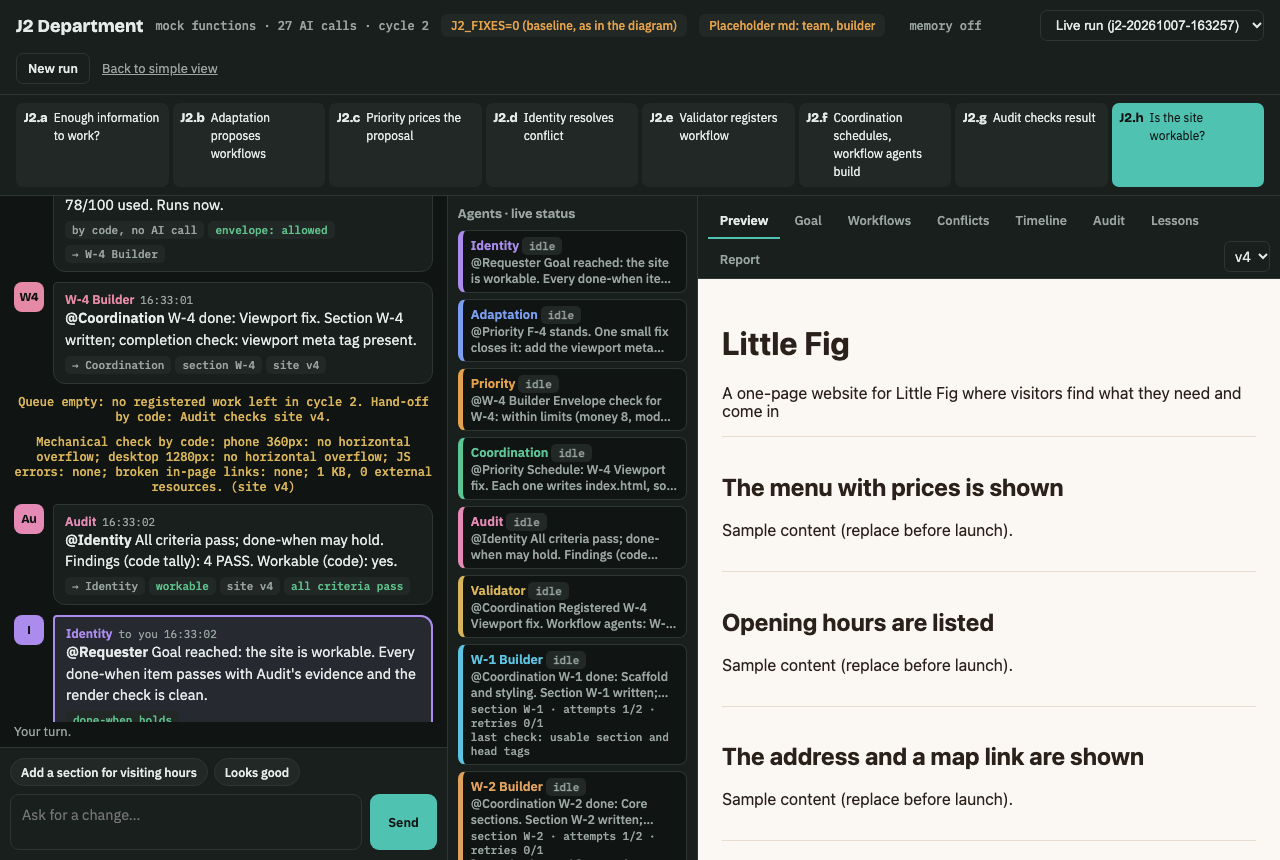
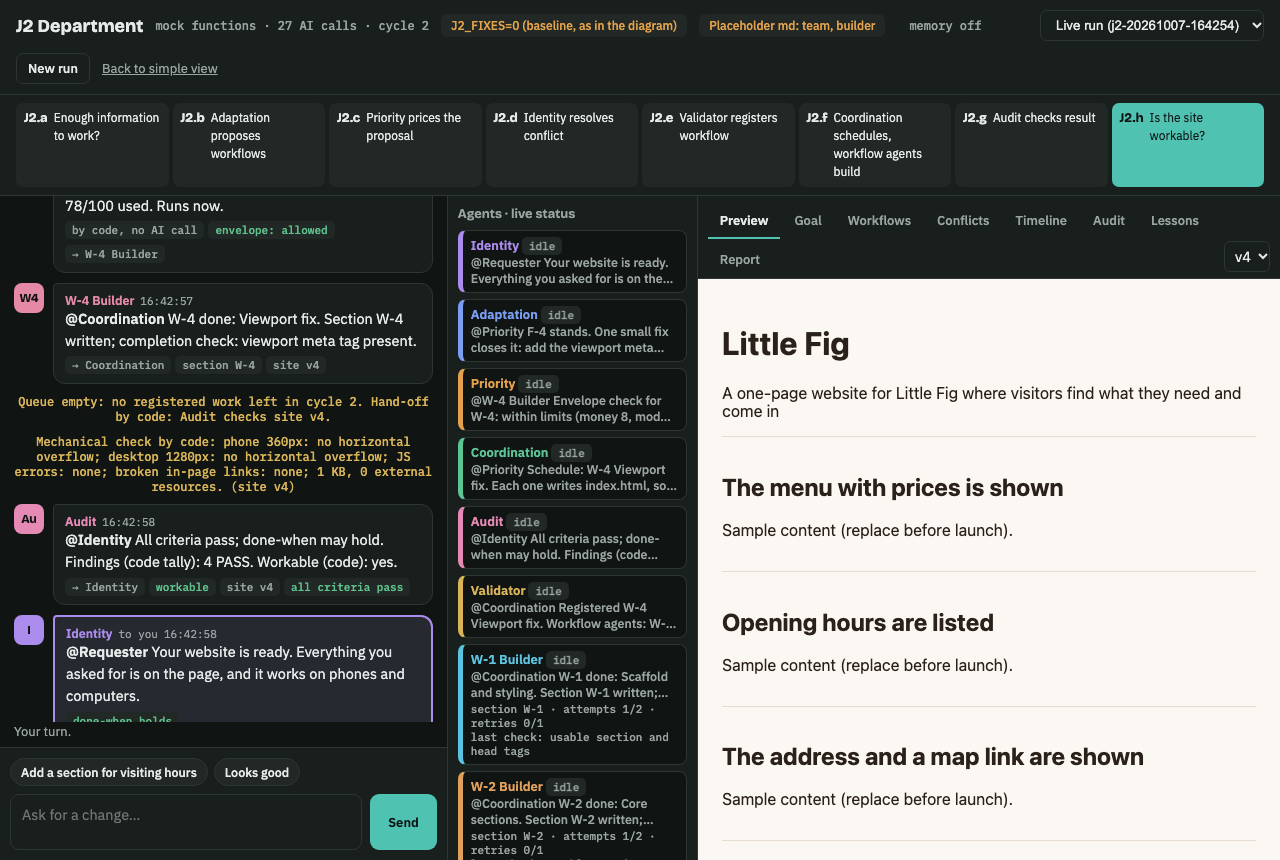
Simple view: plain words at the source, phone toggle, cleaner questions
Identity's prompt now requires plain wording for anything written to
the Requester; the page's word list is a fallback (Audit -> "our
checks"). A question with options shows once, then its buttons. Phone:
preview hidden until a site exists, then a Chat | Preview toggle.
Solid sticky progress bar; chat scrolls to the end after layout.
Tests for each; screenshots retaken.

diff --git a/j2_ui.html b/j2_ui.html
@@ -109,7 +109,9 @@ body.simple #dview{display:none}body:not(.simple) #sview{display:none}
 .smain{flex:1;display:grid;grid-template-columns:minmax(320px,1fr) minmax(0,1.6fr);min-height:0}
 .smain>*{min-width:0}
 .schat{display:flex;flex-direction:column;min-height:0;border-right:1px solid var(--line)}
-.sprog{display:flex;gap:4px;padding:12px 14px 8px}
+.sprog{display:flex;gap:4px;padding:12px 14px 10px;background:var(--bg);border-bottom:1px solid var(--line);position:sticky;top:0;z-index:2;flex:0 0 auto}
+.sq{margin:6px 0 0}
+.stoggle{display:none}
 .sprog div{flex:1;text-align:center;font-size:12px;color:var(--muted)}
 .sprog div i{display:block;height:6px;border-radius:3px;background:var(--panel2);margin-bottom:5px}
 .sprog div.done i,.sprog div.on i{background:var(--accent)}.sprog div.on{color:var(--ink);font-weight:600}
@@ -132,13 +134,21 @@ body.simple #dview{display:none}body:not(.simple) #sview{display:none}
 .ready a,.ready button{border:1px solid var(--line);background:var(--panel2);color:var(--ink);border-radius:8px;padding:7px 11px;font-size:13.5px;text-decoration:none}
 .oops{border:2px solid var(--bad);border-radius:12px;padding:12px;background:var(--panel)}
 .sprev{min-height:0;background:#fff}
-@media (max-width:900px){.smain{grid-template-columns:minmax(0,1fr);grid-template-rows:62vh 75vh}.schat{border-right:0;border-bottom:1px solid var(--line)}}
+@media (max-width:900px){
+  /* phone: one pane at a time; the preview only once a site exists, via the Chat | Preview toggle */
+  .smain{grid-template-columns:minmax(0,1fr);grid-template-rows:auto minmax(0,1fr)}
+  .schat{border-right:0;grid-row:2}.sprev{display:none;grid-row:2}
+  body.has-site .stoggle{display:flex;grid-row:1;border-bottom:1px solid var(--line);background:var(--panel)}
+  .stoggle button{flex:1;border:0;background:none;color:var(--muted);padding:10px;font-weight:600;border-bottom:2px solid transparent}
+  .stoggle button[aria-selected="true"]{color:var(--ink);border-color:var(--accent)}
+  body.sp-preview .schat{display:none}body.sp-preview .sprev{display:block}}
 </style>
 </head>
 <body class="simple">
 <div id="sview">
   <header class="shead"><b>Your website team</b><span class="spacer"></span><a href="?view=detail" class="slink" id="to-detail">See how it works</a></header>
   <main class="smain">
+    <div class="stoggle" role="tablist" aria-label="Show"><button type="button" role="tab" data-pane="chat" aria-selected="true">Chat</button><button type="button" role="tab" data-pane="preview" aria-selected="false">Preview</button></div>
     <section class="schat">
       <div class="sprog" id="sprog" aria-label="Progress"></div>
       <div class="smsgs" id="smsgs" aria-live="polite"></div>
@@ -386,10 +396,10 @@ function renderLessons(s){
 }
 // ================= Simple view: one voice ("Your website team"), plain words, no internals =================
 // Order matters: specific phrases first, then names and words. Internals become plain words; nothing is invented.
-const AGENT = "(?:Identity|Adaptation|Priority|Coordination|Audit|Validator|W-\\d+(?: Builder)?|Builder)";
+const AGENT = "(?:Identity|Adaptation|Priority|Coordination|Validator|W-\\d+(?: Builder)?|Builder)";
 const PLAIN = [[/@[\w-]+[,:]?/g, ""], [/\(?\bJ2(?:\.[a-h]|_[A-Z_]+(?:=\S*)?)?\)?/g, ""], [/\bClause:\s*/g, ""],
   [/\s+(?:on|in|for|of) [CFW]-\d+\b/g, ""], [/\b[CF]-\d+\b/g, ""],
-  [/\bthe Requester\b/g, "you"], [/\bRequester's\b/g, "your"], [/\bRequester\b/g, "you"],
+  [/\b[Tt]he Requester\b/g, "you"], [/\bRequester's\b/g, "your"], [/\bRequester\b/g, "you"],
   [/\bCOUNTER\b/g, "a smaller offer"], [/\bGRANT\b/g, "a yes"], [/\bREFUSE\b/g, "a no"],
   [/\bover (?:the )?budget\b/gi, "more than planned"], [/\bout of budget\b/gi, "out of planned effort"],
   [/\bbudgets?\b/gi, "effort"], [/\bunits?\b/g, "effort points"],
@@ -398,6 +408,7 @@ const PLAIN = [[/@[\w-]+[,:]?/g, ""], [/\(?\bJ2(?:\.[a-h]|_[A-Z_]+(?:=\S*)?)?\)?
   [/\bworkable\b/gi, "ready to use"], [/\bcharter\b/gi, "plan"], [/\bworkflows\b/gi, "tasks"], [/\bworkflow\b/gi, "task"],
   [/\bcycles\b/gi, "rounds"], [/\bcycle\b/gi, "round"], [/\benvelope\b/gi, "limit"], [/\brate[- ]card\b/gi, "price list"],
   [/\bAI calls?\b/gi, "steps"], [/\bmock\b/gi, "sample"],
+  [/\bAudit's\b/g, "our checks'"], [/\bAudit\b/g, "our checks"],
   [new RegExp(`\\b${AGENT}'s\\b`, "g"), "the team's"], [new RegExp(`\\b${AGENT}\\b`, "g"), "the team"]];
 const plain = t => PLAIN.reduce((a, [r, w]) => a.replace(r, w), String(t || "")).replace(/[ \t]{2,}/g, " ")
   .replace(/\s+([.,;:!?])/g, "$1").replace(/\(\s*\)/g, "").trim().replace(/(^|[.!?]\s+|\n)([a-z])/g, (m, a, b) => a + b.toUpperCase());
@@ -427,12 +438,18 @@ function askBubble(m, live){
   let body = `<small>Your website team</small>${esc(say)}`;
   if (kind === "limit" && a.qs[0]){
     const ls = a.qs[0].opts.map(o => optLabel(kind, o));
-    body += `\n${esc(ls.map((l, i) => i === ls.length - 1 && i ? "or " + l.charAt(0).toLowerCase() + l.slice(1) : l).join(", "))}?`;
-  } else if (a.qs.length) body += `<ol>${a.qs.map(q => `<li>${esc(plain(q.q))}</li>`).join("")}</ol>`;
-  if (live) a.qs.forEach((q, i) => { if (!q.opts.length) return;
-    body += `<div class="opts" data-q="${i + 1}" data-n="${a.qs.length}">${q.opts.map((o, j) =>
-      `<button type="button" data-opt="${j + 1}">${esc(optLabel(kind, o))}</button>`).join("")}</div>`; });
+    // live: the buttons are the options, so the sentence doesn't list them again
+    body += live ? " What would you like to do?" + optButtons(a, 0, kind)
+      : `\n${esc(ls.map((l, i) => i === ls.length - 1 && i ? "or " + l.charAt(0).toLowerCase() + l.slice(1) : l).join(", "))}?`;
+  } else if (a.qs.length === 1 || a.qs.some(q => q.opts.length)){
+    // a question with options: the question once, then its buttons (no numbered list)
+    a.qs.forEach((q, i) => { body += `<p class="sq">${esc(plain(q.q))}</p>` + (live && q.opts.length ? optButtons(a, i, kind) : ""); });
+  } else body += `<ol>${a.qs.map(q => `<li>${esc(plain(q.q))}</li>`).join("")}</ol>`;
   return `<div class="sb team">${body}</div>`;
+}
+function optButtons(a, i, kind){
+  return `<div class="opts" data-q="${i + 1}" data-n="${a.qs.length}">${a.qs[i].opts.map((o, j) =>
+    `<button type="button" data-opt="${j + 1}">${esc(optLabel(kind, o))}</button>`).join("")}</div>`;
 }
 function renderSimple(s){
   const st = stage(s);
@@ -456,7 +473,9 @@ function renderSimple(s){
     <a href="/site/latest${runQ().replace("&", "?")}" download="my-website.html">Download the HTML file</a>
     <button type="button" id="sask-change">Ask for a change</button></div></div>`;
   if (failed(s)) out += `<div class="oops">Something went wrong. Try again.<div class="acts" style="margin-top:8px"><button type="button" class="ghost" id="sretry">Start over</button></div></div>`;
-  if (out !== simpleHTML){ simpleHTML = out; $("smsgs").innerHTML = out; $("smsgs").scrollTop = $("smsgs").scrollHeight; }
+  if (out !== simpleHTML){ simpleHTML = out; $("smsgs").innerHTML = out;
+    const end = () => { $("smsgs").scrollTop = $("smsgs").scrollHeight; };   // again after layout and fonts settle
+    end(); requestAnimationFrame(end); setTimeout(end, 300); }
   const w = s.workflows.find(x => x.id === s.thinking || x.status === "running");
   $("sstatus").textContent = s.status !== "running" ? "" : w ? `Building your ${plain(w.name).toLowerCase()}…`
     : ["Reading your request…", "Reading your request…", "Planning your website…", "Planning your website…", "Planning your website…",
@@ -465,12 +484,17 @@ function renderSimple(s){
   $("sbox").disabled = $("ssend").disabled = busy;
   $("sbox").placeholder = s.paused ? "Or type your own answer…" : isReady(s) ? "Describe a change…" : s.allChat.length ? "Write a message…" : "Describe the website you want…";
   if (s.versions !== sversions){ sversions = s.versions; $("sframe").src = `/site/latest?t=${Date.now()}${runQ()}`; }
+  document.body.classList.toggle("has-site", s.versions > 0);
+  if (!s.versions) document.body.classList.remove("sp-preview");
 }
 let simpleHTML = null, sversions = -1;
 async function sendText(text){
   if (!text) return;
   await fetch("/api/say", {method:"POST", headers:{"Content-Type":"application/json"}, body:JSON.stringify({text})});
 }
+document.querySelector(".stoggle").addEventListener("click", e => { const b = e.target.closest("[data-pane]"); if (!b) return;
+  document.body.classList.toggle("sp-preview", b.dataset.pane === "preview");
+  document.querySelectorAll(".stoggle [data-pane]").forEach(x => x.setAttribute("aria-selected", x === b)); });
 $("ssend").onclick = () => { const t = $("sbox").value.trim(); $("sbox").value = ""; sendText(t); };
 $("sbox").addEventListener("keydown", e => { if (e.key === "Enter" && !e.shiftKey){ e.preventDefault(); $("ssend").click(); }});
 $("smsgs").addEventListener("click", async e => {

diff --git a/j2_flow_test.py b/j2_flow_test.py
@@ -512,7 +512,8 @@ def summary_before_review():
 SIMPLE_FORBIDDEN = re.compile(r"\b(Identity|Adaptation|Priority|Coordination|Audit|Validator|Builder|Requester)\b|J2|"
                               r"budget|\bW-\d|@|\bcycles?\b|AI calls?|\bmock\b|charter|done[-_ ]when|workflow|\bthe you\b",
                               re.I)
-SIMPLE_FORBIDDEN_CASE = re.compile(r"\b(COUNTER|GRANT|REFUSE|Clause|NEEDS_REVISION|PASS)\b")
+SIMPLE_FORBIDDEN_CASE = re.compile(r"\b(COUNTER|GRANT|REFUSE|Clause|NEEDS_REVISION|PASS)\b"
+                                   r"|\b(?:after|before|by|from|until|than) the team\b")   # e.g. "after Audit" -> not "after the team"
 
 
 def simple_text(base):
@@ -547,7 +548,8 @@ def simple_text(base):
     p = P()
     p.text, p.buttons = [], []
     p.feed(out)
-    return " ".join(" ".join(p.text).split()), p.buttons
+    body = re.search(r'<body class="([^"]*)"', out)
+    return " ".join(" ".join(p.text).split()), p.buttons, (body.group(1).split() if body else [])
 
 
 def simple_view():
@@ -562,40 +564,81 @@ def simple_view():
     base = f"http://127.0.0.1:{srv.server_address[1]}"
     keep = j2_server.RUN
 
-    def check(run, *want, opts=0):
+    def check(run, *want, opts=0, once=(), site=None):
         j2_server.RUN = run
-        text, buttons = simple_text(base)
+        text, buttons, cls = simple_text(base)
         bad = SIMPLE_FORBIDDEN.findall(text) + SIMPLE_FORBIDDEN_CASE.findall(text)
         assert not bad, (bad, text[:600])
         for w in want:
             assert w in text, (w, text[:600])
         assert sum(1 for b in buttons if b.get("data-opt")) >= opts, (opts, buttons)
+        for w in once:                         # a question with buttons is shown once, not also as a numbered list
+            assert text.count(w) == 1, (w, text.count(w), text[-500:])
+        if site is not None:                   # phone: the Chat | Preview toggle only once a site exists
+            assert ("has-site" in cls) == site, cls
         return text
     try:
         os.environ["J2_FIXES"] = "0"
-        check(j2.J2Run(), "Describe the website you want", "A website for my cafe", "Understanding your request")
+        check(j2.J2Run(), "Describe the website you want", "A website for my cafe", "Understanding your request",
+              site=False)
         run = j2.J2Run()
         say(run, "a website for my cafe")
-        check(run, "Your website team", "What is the business called")                     # J2.a questions
+        check(run, "Your website team", "What is the business called", site=False)          # J2.a questions
         say(run, "It's called Little Fig, in Koramangala, Bengaluru. Visitors should see our menu with prices, opening "
                  "hours and where to find us. Cozy and simple, and it must work on phones.")
-        t = check(run, "Fund a stories section", opts=2)                                     # a conflict, as buttons
-        assert "effort" in t or "units" not in t, t
+        check(run, opts=2, once=("Do you want a section about your coffee's story?",
+                                 "Add a section about your coffee's story (takes a bit longer)",
+                                 "Keep it simple, no story section"))                       # a conflict: once, as buttons
         say(run, "Option 2")
         check(run, "Your website is ready", "Open full screen", "Download the HTML file", "Ask for a change",
-              "No stories section")                                                          # the chosen label shows
+              "Keep it simple, no story section", site=True)                                # the chosen label shows
         os.environ["J2_FIXES"] = "1"
         run = j2.J2Run()
         run.budget = 85
         say(run, BREW_LAB)
         say(run, "Option 1")                                                                 # ruling: add effort
         assert run.paused and run.paused["kind"] == "limit", run.outcome
-        check(run, "This needs a bit more work than planned", "Continue (uses a little more effort)",
-              "Finish as it is", opts=2)
+        check(run, "This needs a bit more work than planned", "What would you like to do?", opts=2,
+              once=("Continue (uses a little more effort)", "Finish as it is"))
     finally:
         j2_server.RUN = keep
         srv.shutdown()
         os.environ["J2_FIXES"] = "0"
+
+
+def plain_words():
+    """The Simple view's word list (fallback only): Audit becomes "our checks", never "the team", so nothing reads
+    "after the team"; other function names become "the team"; budget becomes effort. Runs the page's own JS in node."""
+    import shutil
+    import subprocess
+    if not shutil.which("node"):
+        print("plain-words check skipped: node not found")
+        return
+    with open(os.path.join(j2.HERE, "j2_ui.html"), encoding="utf-8") as f:
+        ui = f.read()
+    js = ui[ui.index("const AGENT ="):ui.index("const STAGES =")]
+    cases = {"only 10 units stay for fixes after Audit": "Only 10 effort points stay for fixes after our checks",
+             "Every done-when item passes with Audit's evidence.": "Every checklist item passes with our checks' evidence.",
+             "@Adaptation Priority's final answer was COUNTER.": "The team's final answer was a smaller offer.",
+             "The Requester picked; the budget is over budget.": "You picked; the effort is more than planned."}
+    out = subprocess.run(["node", "-e", js + "\nconst c = " + json.dumps(list(cases)) +
+                          ";\nprocess.stdout.write(JSON.stringify(c.map(plain)));"], capture_output=True, text=True)
+    got = json.loads(out.stdout or "null") or sys.exit(out.stderr)
+    for (src, want), g in zip(cases.items(), got):
+        assert g == want, (src, g, want)
+        assert not re.search(r"\b(?:after|before|by|from|until|than) the team\b", g), g
+
+
+def identity_prompt_is_plain():
+    """Item 1: every Identity call carries the plain-language rule for what it writes to the Requester; no one else's."""
+    run = j2.J2Run()
+    say(run, BREW_LAB)
+    add_budget_if_asked(run)
+    with open(os.path.join(run.dir, "calls.jsonl"), encoding="utf-8") as f:
+        calls = [json.loads(ln) for ln in f]
+    assert any(c["fn"] == "identity" for c in calls)
+    for c in calls:
+        assert ("college student with no tech background" in c["prompt"]) == (c["fn"] == "identity"), (c["id"], c["fn"])
 
 
 def page():
@@ -705,5 +748,7 @@ if __name__ == "__main__":
     page()
     print("E behind-the-scenes view (lanes, detail, timeline, saved runs, redaction, lessons) ok")
     simple_view()
-    print("G simple view (plain words, buttons, ready card) ok")
+    plain_words()
+    identity_prompt_is_plain()
+    print("G simple view (plain words at the source and as fallback, buttons once, phone toggle, ready card) ok")
     print("j2 flow checks passed")

diff --git a/j2.py b/j2.py
@@ -715,6 +715,16 @@ class J2Run:
         return f"STATE:\n{self.state(fn)}\n\nCHAT:\n{self.chat_view()}"
 
     REASON = '"reason": str (one short sentence: why you decided this)'
+    # Every Identity call gets this: anything Identity writes to the Requester must read plainly at the source.
+    # (The Simple view's word list is only a fallback.) Messages to other agents keep their precise terms.
+    PLAIN_TO_REQUESTER = (
+        "\nWHEN YOU WRITE TO THE REQUESTER (any say addressed to them, any question or option for them): they are a "
+        "college student with no tech background. Use everyday words. Never use internal terms: charter, done-when, "
+        "checklist, standards, reserve, fix, effort, budget, units, workflow, cycle, finding, audit, ruling, envelope, "
+        "content types such as \"warmth content\", or the names of the functions (Identity, Adaptation, Priority, "
+        "Coordination, Audit). At most two short sentences of context. Each option says what they get and what it costs, "
+        "in plain words, e.g. \"Add a section about your coffee's story (takes a bit longer)\" / \"Keep it simple, no "
+        "story section\". No recommendation.")
     MOCK_REASON = "Scripted mock reply: no model reasoning."
 
     def call(self, fn, reply_format, task, mock, max_tokens=900, json_reply=True):
@@ -722,7 +732,7 @@ class J2Run:
         (inputs, reply, reason, tokens, time) and linked to the agent's next chat message for the detail view."""
         if json_reply and reply_format.rstrip().endswith("}") and '"reason"' not in reply_format:
             reply_format = reply_format.rstrip()[:-1] + ", " + self.REASON + "}"
-        user = f"{self.context(fn)}\n\nYOUR TURN:\n{task}"
+        user = f"{self.context(fn)}\n\nYOUR TURN:\n{task}" + (self.PLAIN_TO_REQUESTER if fn == "identity" else "")
         system = system_prompt(fn, reply_format)
         if self.calls and DELAY:
             time.sleep(DELAY)
@@ -1010,8 +1020,8 @@ class J2Run:
                                                                   + [f"Change: {change}"]}})
             text = " ".join([self.request] + [x["answer"] for x in self.intake])
             if not self.intake and len(self.request.split()) < 25 and not last:
-                return json.dumps({"say": "Before we start I need a few facts the brief doesn't give. I won't guess "
-                                          "them.", "enough": False, "next": "Requester", "questions": [
+                return json.dumps({"say": "Before we start, a few quick questions so we build the right thing.",
+                                   "enough": False, "next": "Requester", "questions": [
                     {"question": "What is the business called, and where is it?", "options": []},
                     {"question": "What must visitors be able to see or do on the site?", "options": []},
                     {"question": "How should it feel, and must it work well on phones?", "options": []}]})
@@ -1165,7 +1175,7 @@ class J2Run:
                 return json.dumps({"say": f"Clause: done_when. {NAMES[b]}'s position stands.", "clause": "done_when",
                                    "resolved": True, "ruling": b, "instruction": "Carry on."})
             if answer:
-                fund = re.search(r"\b1\b|fund|include", answer, re.I)
+                fund = re.search(r"\b1\b|fund|include|add a section", answer, re.I)
                 return json.dumps({"say": "The Requester chose. " + ("The stories section is funded as Adaptation "
                                    "proposed; Priority's other cuts stand." if fund else "Priority's position stands: "
                                    "no stories section, the reserve stays."), "clause": "Requester's decision",
@@ -1176,15 +1186,12 @@ class J2Run:
                                           "Priority's cut to the animations stands.", "clause": f"done_when: {beans}",
                                    "facts": ["The charter names the beans and farms content"], "resolved": True,
                                    "instruction": "Register the split.", **split})
-            return json.dumps({"say": "Clause: done_when has no stories item, and the standards don't settle whether "
-                                      "warmth content is worth the fix reserve. The charter can't decide this, so I'm "
-                                      "asking the Requester.", "clause": "done_when; standards", "resolved": False,
-                               "ruling": None, "instruction": "", "user_question": {
-                                   "question": "Fund a stories section, or keep the reserve for fixes?",
-                                   "options": ["Fund the stories section (20 units): warmer page, but only 10 units "
-                                               "stay for fixes after Audit",
-                                               "No stories section: the page has only the charter's sections, and 30 "
-                                               "units stay for fixes"]}})
+            return json.dumps({"say": "@Requester One choice is up to you. A story section makes the site feel more "
+                                      "personal, but it takes longer to build.", "clause": "done_when; standards",
+                               "resolved": False, "ruling": None, "instruction": "", "user_question": {
+                                   "question": "Do you want a section about your coffee's story?",
+                                   "options": ["Add a section about your coffee's story (takes a bit longer)",
+                                               "Keep it simple, no story section"]}})
         r = self.call("identity", fmt, task, mock)
         ruling = key(r.get("ruling"))
         c["identity"].append({"say": r.get("say"), "clause": r.get("clause"), "resolved": bool(r.get("resolved")),
@@ -1424,8 +1431,8 @@ class J2Run:
 
         def mock():
             if not fails:
-                return json.dumps({"say": "@Requester Goal reached: the site is workable. Every done-when item passes "
-                                          "with Audit's evidence and the render check is clean.", "clause": "done_when",
+                return json.dumps({"say": "@Requester Your website is ready. Everything you asked for is on the page, and "
+                                          "it works on phones and computers.", "clause": "done_when",
                                    "done": True, "next": "Requester"})
             return json.dumps({"say": "@Adaptation Not workable yet; the failing findings need rework.",
                                "clause": "done_when", "done": False, "needs_requester": bool(facts),

diff --git a/README.md b/README.md
@@ -131,17 +131,23 @@ STUDIO_MOCK=1 python j2_server.py                # offline demo, scripted agents
 
 The page opens in the **Simple view**, made for someone who knows nothing about agents (screenshots in
 `docs/ui-simple-*.png`):
-- **Layout:** chat on the left, a large preview of the site on the right. On a phone the chat is on top and the
-  preview below.
+- **Layout:** chat on the left, a large preview of the site on the right. On a phone the preview stays hidden
+  until a site exists; then a "Chat | Preview" toggle at the top shows one at a time.
 - **One voice:** only the messages addressed to you, from one assistant called "Your website team". No agent
   names, @mentions, step codes or internal messages.
-- **Plain words:** budget becomes "effort", the checklist replaces "done-when", and there are no model names,
-  AI-call counts, cycles or badges. When the effort runs out, it asks: "This needs a bit more work than
-  planned. Continue (uses a little more effort), skip …, or finish as it is?"
-- **Progress:** a 5-step bar above the chat (Understanding your request, Planning, Building, Checking, Ready),
+- **Plain words at the source:** every Identity prompt says that anything written to you must suit a college
+  student with no tech background: no internal terms, at most two short sentences of context, and each option
+  says what you get and what it costs ("Add a section about your coffee's story (takes a bit longer)" / "Keep
+  it simple, no story section").
+- **Word list (fallback only):** a word list in the page rewrites whatever still slips through. Function names
+  become "the team", Audit becomes "our checks" (so never "after the team"), budget becomes "effort". There are
+  no model names, AI-call counts, cycles or badges. When the effort runs out it asks "This needs a bit more work
+  than planned. What would you like to do?" with Continue (uses a little more effort) / Skip … / Finish as it
+  is.
+- **Progress:** a 5-step bar above the chat (solid background, so messages never show through it) (Understanding your request, Planning, Building, Checking, Ready),
   plus one friendly line while the team works, e.g. "Building your menu section…".
-- **Questions:** every option is a button, so you never type an option number; a text box is there for your
-  own answer.
+- **Questions:** a question with options is shown once, followed by its buttons, so you never type an option
+  number; a text box is there for your own answer.
 - **Start screen:** the three example briefs as cards.
 - **When done:** "Your website is ready" with Open full screen, Download the HTML file and Ask for a change.
 - **Errors:** a plain "Something went wrong. Try again."; the details stay in the Detailed view.
@@ -349,8 +355,10 @@ python j2_check.py site.html      # the render check on any page
   and not reused, an unknown item ignored, off when unset. `J2_MEMORY_TEST_LESSONS`: test lessons filtered by
   default; with the opt-in one is used and flagged in the chat, the lane and `summary.json`
 - G: the Simple view rendered in headless Chrome in five states (start, intake questions, a conflict question, a
-  limit question, ready). Its visible text never contains agent names, J2 codes, "budget", COUNTER/GRANT/REFUSE
-  or other internals; options are buttons; the ready card has its three buttons
+  limit question, ready). Its visible text never contains agent names, J2 codes, "budget", COUNTER/GRANT/REFUSE,
+  "after the team" or other internals. A question with buttons appears once. The phone toggle appears only once
+  a site exists. The ready card has its three buttons. Also checked: the word list (run in node: Audit becomes
+  "our checks"), and that every Identity prompt, and no other, carries the plain-language rule
 - E: the page's tabs, lanes and their statuses, call links with reasons and no invented tokens, the full call
   record, saved runs opened read-only, path tricks refused, a fake key redacted, clear memory
 
